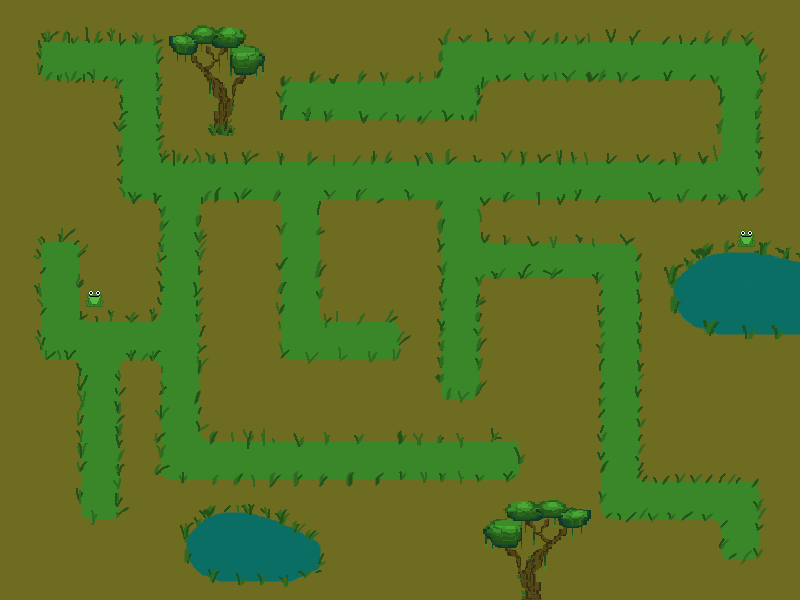
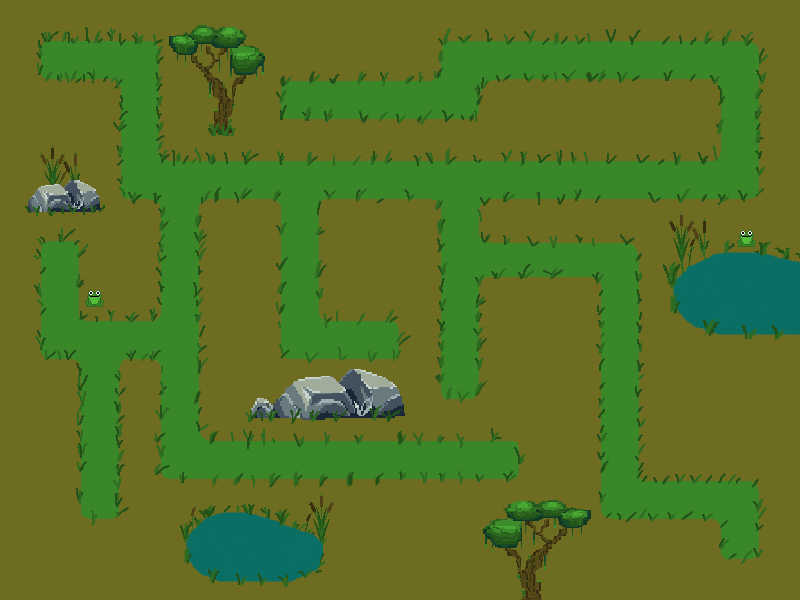
swamp + start/end

diff --git a/ProjectE/universes/ShellUniverse.java b/ProjectE/universes/ShellUniverse.java
@@ -9,7 +9,7 @@ public class ShellUniverse implements Universe {
 	private DisplayableSprite backgroundSprite = null;
 	private ArrayList<DisplayableSprite> sprites = new ArrayList<DisplayableSprite>();
 	private ArrayList<Background> backgrounds = new ArrayList<Background>();
-	public static int level = 1;
+	public static int level = 0;
 
 	public ShellUniverse () {
 		
@@ -65,11 +65,18 @@ public class ShellUniverse implements Universe {
 			complete = true;
 		}
 		
-		if (quack.getStatus()) {
-			quack.setStatus(false);
-			quack.list.reset();
+		if (keyboard.keyDownOnce(32)) {
 			level++;
 			updateBarrierPathSprites();
+		}
+		
+		if (quack != null) {
+			if (quack.getStatus()) {
+				quack.setStatus(false);
+				quack.list.reset();
+				level++;
+				updateBarrierPathSprites();
+			}
 		}
 		
 		for (int i = 0; i < sprites.size(); i++) {
@@ -95,24 +102,25 @@ public class ShellUniverse implements Universe {
 		backgroundSprite = new BackgroundSprite(0, 0, level);
 		sprites.add(backgroundSprite);
 		
+		if (level != 0 && level != 11) {
 		
-		
-		//barrier sprites
-		ArrayList<DisplayableSprite> barriers = ((MappedBackground)background).getBarriers();
-		((MappedBackground) background).getBarriers();
-		sprites.addAll(barriers);
-		
-		//path sprites
-		ArrayList<DisplayableSprite> paths = ((MappedBackground)background).getPaths();
-		((MappedBackground) background).getPaths();
-		sprites.addAll(paths);
-		
-		this.setXCenter(0);
-		this.setYCenter(0);
-		quack = new QuackSprite(-345, -243);
-		finishLine = new FinishLine(340, 245);
-		sprites.add(finishLine);
-		sprites.add(quack);
+			//barrier sprites
+			ArrayList<DisplayableSprite> barriers = ((MappedBackground)background).getBarriers();
+			((MappedBackground) background).getBarriers();
+			sprites.addAll(barriers);
+			
+			//path sprites
+			ArrayList<DisplayableSprite> paths = ((MappedBackground)background).getPaths();
+			((MappedBackground) background).getPaths();
+			sprites.addAll(paths);
+			
+			this.setXCenter(0);
+			this.setYCenter(0);
+			quack = new QuackSprite(-345, -243);
+			finishLine = new FinishLine(340, 245);
+			sprites.add(finishLine);
+			sprites.add(quack);
+		}
 		
 	}
 

diff --git a/ProjectE/sprites/BackgroundSprite.java b/ProjectE/sprites/BackgroundSprite.java
@@ -6,6 +6,7 @@ import javax.imageio.ImageIO;
 
 public class BackgroundSprite implements DisplayableSprite {
 	
+	private Image start;
 	private Image image;
 	private Image tubA;
 	private Image tubB;
@@ -17,6 +18,7 @@ public class BackgroundSprite implements DisplayableSprite {
 	private Image swampB;
 	private Image swampC;
 	private Image fire;
+	private Image end;
 	
 	private double centerX = 0;
 	private double centerY = 0;
@@ -34,6 +36,7 @@ public class BackgroundSprite implements DisplayableSprite {
 		
 		if (tubA == null) {
 			try {
+				start = ImageIO.read(new File("res/backgrounds/start1.png"));
 				tubA = ImageIO.read(new File("res/backgrounds/bath1.png"));
 				tubB = ImageIO.read(new File("res/backgrounds/bath2.png"));
 				tubC = ImageIO.read(new File("res/backgrounds/bath3.png"));
@@ -44,6 +47,7 @@ public class BackgroundSprite implements DisplayableSprite {
 				swampB = ImageIO.read(new File("res/backgrounds/swamp2.png"));
 				swampC = ImageIO.read(new File("res/backgrounds/swamp3.png"));
 				fire = ImageIO.read(new File("res/backgrounds/fire.png"));
+				end = ImageIO.read(new File("res/backgrounds/end1.png"));
 			}
 			catch (IOException e) {
 				e.printStackTrace();
@@ -52,7 +56,9 @@ public class BackgroundSprite implements DisplayableSprite {
 	}
 
 	public Image getImage() {
-		if (level == 1) {
+		if (level == 0) {
+			image = start;
+		} else if (level == 1) {
 			image = tubA;
 		} else if (level == 2) {
 			image = tubB;
@@ -73,7 +79,7 @@ public class BackgroundSprite implements DisplayableSprite {
 		} else if (level == 10) {
 			image = fire;
 		} else {
-			image = fire;
+			image = end;
 			System.out.println("level was below 1 or above 10:/");
 		}
 		return image;

diff --git a/ProjectE/gui/AnimationFrame.java b/ProjectE/gui/AnimationFrame.java
@@ -40,7 +40,7 @@ public class AnimationFrame extends JFrame {
 	private boolean isPaused = false;
 
 	private KeyboardInput keyboard = new KeyboardInput();
-	protected Universe universe = null;
+	public Universe universe = null;
 
 	//local (and direct references to various objects in universe ... should reduce lag by avoiding dynamic lookup
 	private Animation animation = null;
